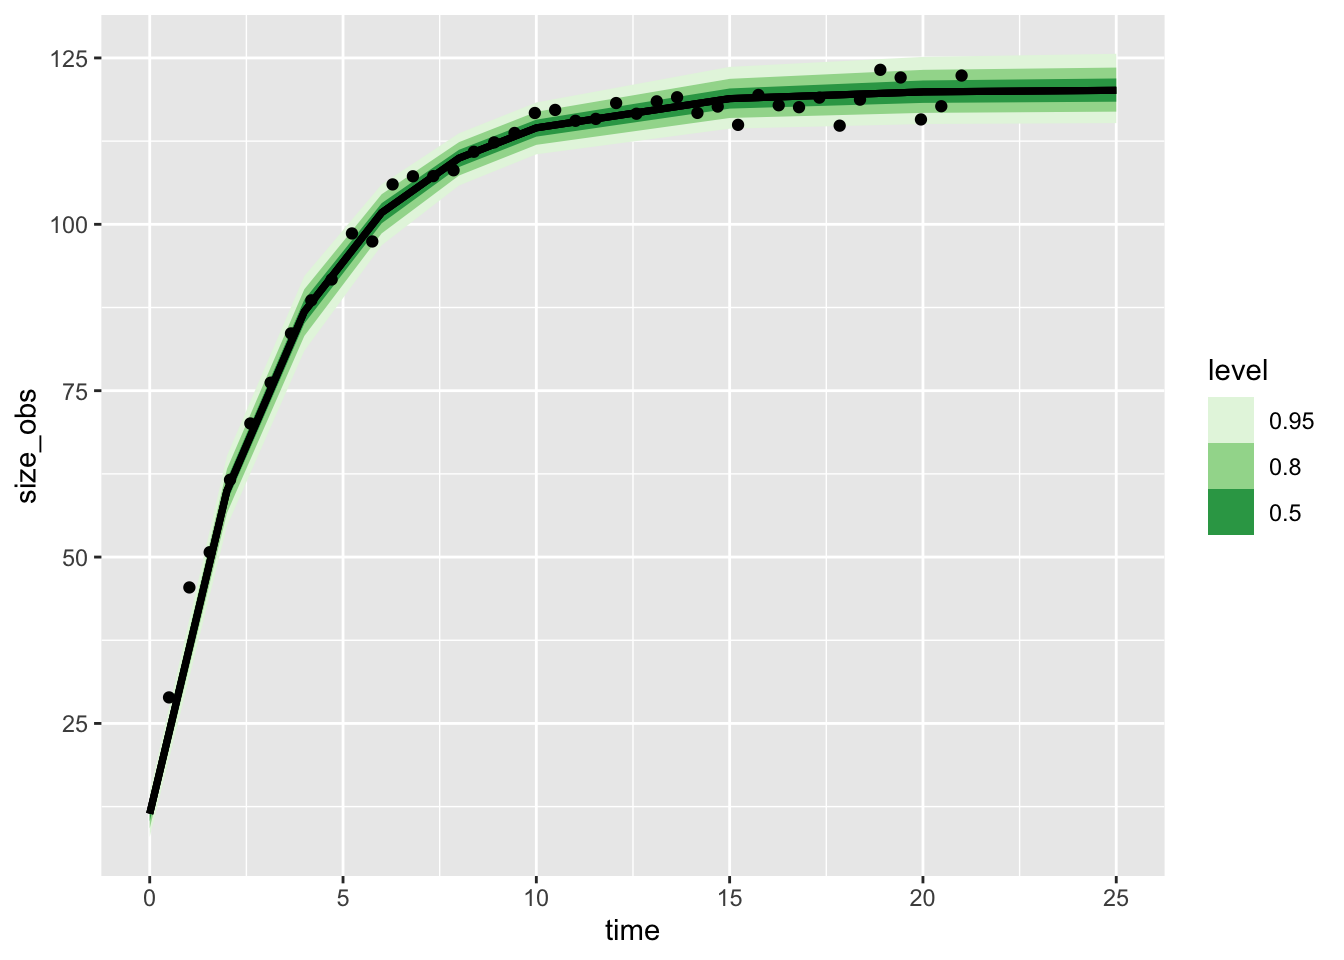
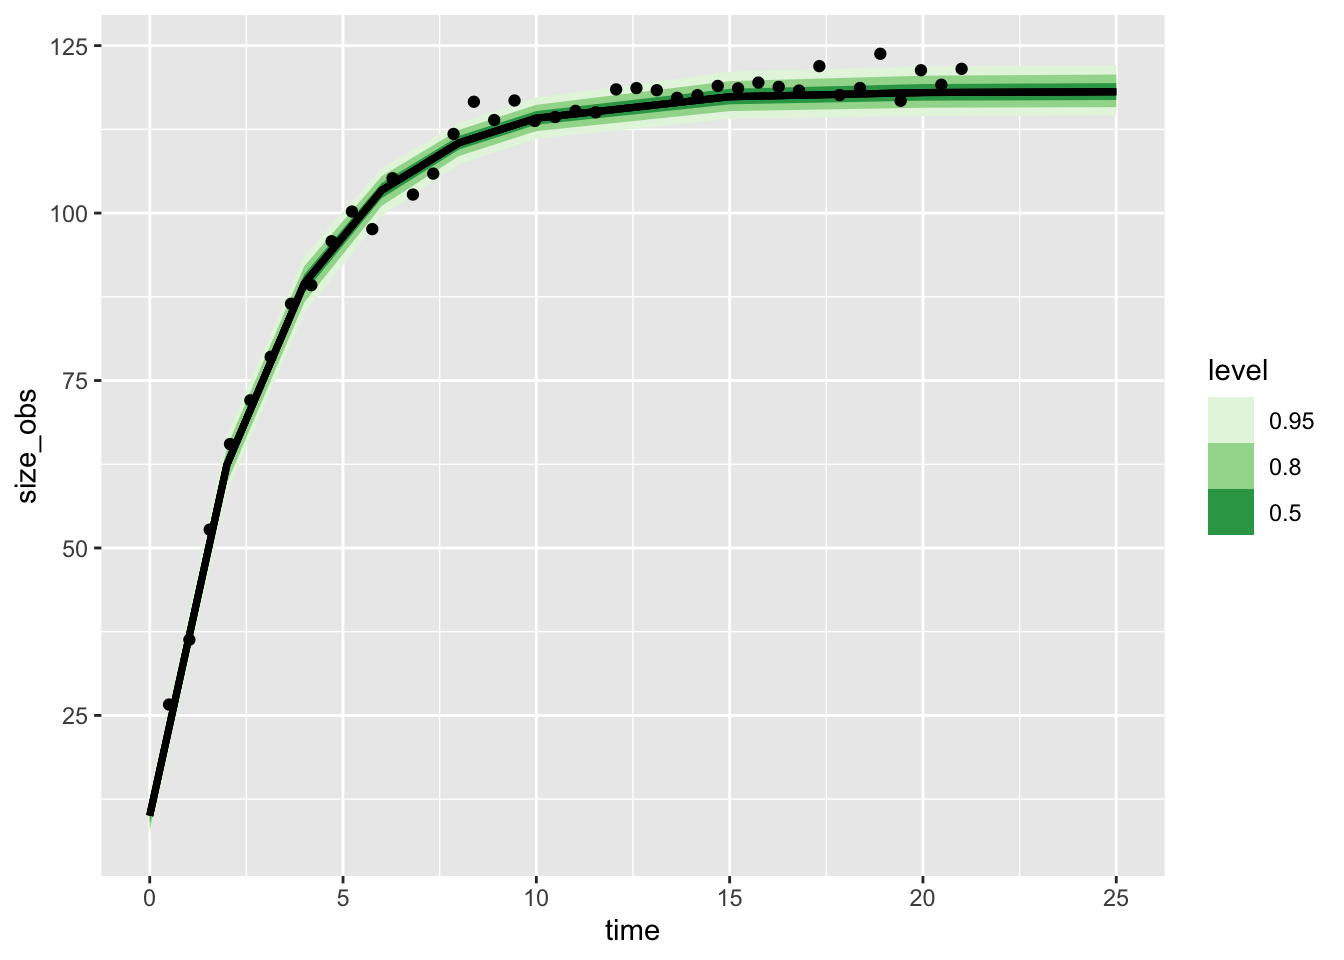
update post and have a good output

Changed region(s): [[0.0312, 0.0312, 0.8438, 0.75], [0.0312, 0.7188, 0.0625, 0.7812], [0.0312, 0.375, 0.0625, 0.4062]]

diff --git a/docs/posts/2023-10-23-discrete-vb-brms-stan/index.html b/docs/posts/2023-10-23-discrete-vb-brms-stan/index.html
@@ -376,14 +376,14 @@ L_t = L_0e^{-rt} + L_{max}(1 - e^{-rt})
 Chain 1 finished in 0.1 seconds.
 Chain 2 finished in 0.1 seconds.
 Chain 3 finished in 0.1 seconds.
-Chain 4 finished in 0.2 seconds.
+Chain 4 finished in 0.1 seconds.
 
 All 4 chains finished successfully.
 Mean chain execution time: 0.1 seconds.
-Total execution time: 1.0 seconds.</code></pre>
+Total execution time: 0.7 seconds.</code></pre>
 </div>
 </div>
-<div class="cell">
+<div class="cell preview-image">
 <div class="sourceCode cell-code" id="cb10"><pre class="sourceCode r code-with-copy"><code class="sourceCode r"><span id="cb10-1"><a href="#cb10-1" aria-hidden="true" tabindex="-1"></a>vb_discrete_post<span class="sc">$</span><span class="fu">draws</span>() <span class="sc">|&gt;</span> </span>
 <span id="cb10-2"><a href="#cb10-2" aria-hidden="true" tabindex="-1"></a>  <span class="fu">gather_rvars</span>(mu[i]) <span class="sc">|&gt;</span> </span>
 <span id="cb10-3"><a href="#cb10-3" aria-hidden="true" tabindex="-1"></a>  <span class="fu">mutate</span>(<span class="at">time =</span> <span class="fu">cumsum</span>(<span class="fu">c</span>(<span class="dv">0</span>, diff_pred))) <span class="sc">|&gt;</span> </span>
@@ -417,16 +417,16 @@ Unknown or uninitialised column: `linewidth`.</code></pre>
 <pre><code># A tibble: 23 × 10
    variable    mean  median     sd    mad      q5     q95  rhat ess_bulk
    &lt;chr&gt;      &lt;num&gt;   &lt;num&gt;  &lt;num&gt;  &lt;num&gt;   &lt;num&gt;   &lt;num&gt; &lt;num&gt;    &lt;num&gt;
- 1 lp__     -29.7   -29.3   1.56   1.31   -32.7   -27.9    1.00    1768.
- 2 Lstart    11.4    11.4   1.70   1.68     8.62   14.2    1.00    2837.
- 3 Lmax     120.    120.    2.70   2.63   116.    125.     1.00    2483.
- 4 r          0.297   0.296 0.0275 0.0264   0.253   0.343  1.00    2583.
- 5 sigma      2.50    2.46  0.383  0.362    1.96    3.20   1.00    3581.
- 6 mu[1]     11.4    11.4   1.70   1.68     8.62   14.2    1.00    2837.
- 7 mu[2]     60.0    60.0   2.64   2.47    55.6    64.3    1.00    3587.
- 8 mu[3]     86.8    86.9   2.79   2.66    82.0    91.2    1.00    3857.
- 9 mu[4]    102.    102.    2.34   2.23    97.7   105.     1.00    4545.
-10 mu[5]    110.    110.    2.01   1.91   107.    113.     1.00    4846.
+ 1 lp__     -21.6   -21.2   1.57   1.34   -24.6   -19.8    1.00    1697.
+ 2 Lstart    10.0    10.0   1.61   1.57     7.30   12.6    1.00    3028.
+ 3 Lmax     118.    118.    1.95   1.88   115.    122.     1.00    3063.
+ 4 r          0.332   0.332 0.0238 0.0226   0.295   0.372  1.00    2828.
+ 5 sigma      2.13    2.07  0.362  0.334    1.62    2.78   1.00    2748.
+ 6 mu[1]     10.0    10.0   1.61   1.57     7.30   12.6    1.00    3028.
+ 7 mu[2]     62.5    62.5   2.16   2.02    58.9    66.0    1.00    3801.
+ 8 mu[3]     89.4    89.5   2.18   2.05    85.8    92.9    1.00    4074.
+ 9 mu[4]    103.    103.    1.78   1.67   100.    106.     1.00    5036.
+10 mu[5]    110.    110.    1.56   1.51   108.    113.     1.00    4967.
 # ℹ 13 more rows
 # ℹ 1 more variable: ess_tail &lt;num&gt;</code></pre>
 </div>
@@ -452,7 +452,7 @@ Unknown or uninitialised column: `linewidth`.</code></pre>
 <span id="cb17-13"><a href="#cb17-13" aria-hidden="true" tabindex="-1"></a><span class="fu">get_prior</span>(vb_formula, <span class="at">data =</span> lagged_obs)</span></code><button title="Copy to Clipboard" class="code-copy-button"><i class="bi"></i></button></pre></div>
 <div class="cell-output cell-output-stdout">
 <pre><code>                prior class      coef group resp dpar   nlpar lb ub
- student_t(3, 0, 4.8) sigma                                    0   
+ student_t(3, 0, 4.3) sigma                                    0   
                (flat)     b                              logR      
                (flat)     b Intercept                    logR      
                (flat)     b                           sizeMax      

diff --git a/docs/blog.html b/docs/blog.html
@@ -201,10 +201,10 @@ ul.task-list li input[type="checkbox"] {
     </div>
 </div>
 <div class="list quarto-listing-default">
-<div class="quarto-post image-right" data-index="0" data-categories="UdeS,stan" data-listing-date-sort="1699333200000" data-listing-file-modified-sort="1699395719686" data-listing-date-modified-sort="NaN" data-listing-reading-time-sort="6" data-listing-word-count-sort="1037">
+<div class="quarto-post image-right" data-index="0" data-categories="UdeS,stan" data-listing-date-sort="1699333200000" data-listing-file-modified-sort="1699396824757" data-listing-date-modified-sort="NaN" data-listing-reading-time-sort="6" data-listing-word-count-sort="1037">
 <div class="thumbnail">
 <p><a href="./posts/2023-10-23-discrete-vb-brms-stan/index.html"></a></p><a href="./posts/2023-10-23-discrete-vb-brms-stan/index.html">
-<p class="card-img-top"><img src="posts/2023-10-23-discrete-vb-brms-stan/index_files/figure-html/unnamed-chunk-1-1.png"  class="thumbnail-image card-img"/></p>
+<p class="card-img-top"><img src="posts/2023-10-23-discrete-vb-brms-stan/index_files/figure-html/unnamed-chunk-7-1.png"  class="thumbnail-image card-img"/></p>
 </a><p><a href="./posts/2023-10-23-discrete-vb-brms-stan/index.html"></a></p>
 </div>
 <div class="body">
